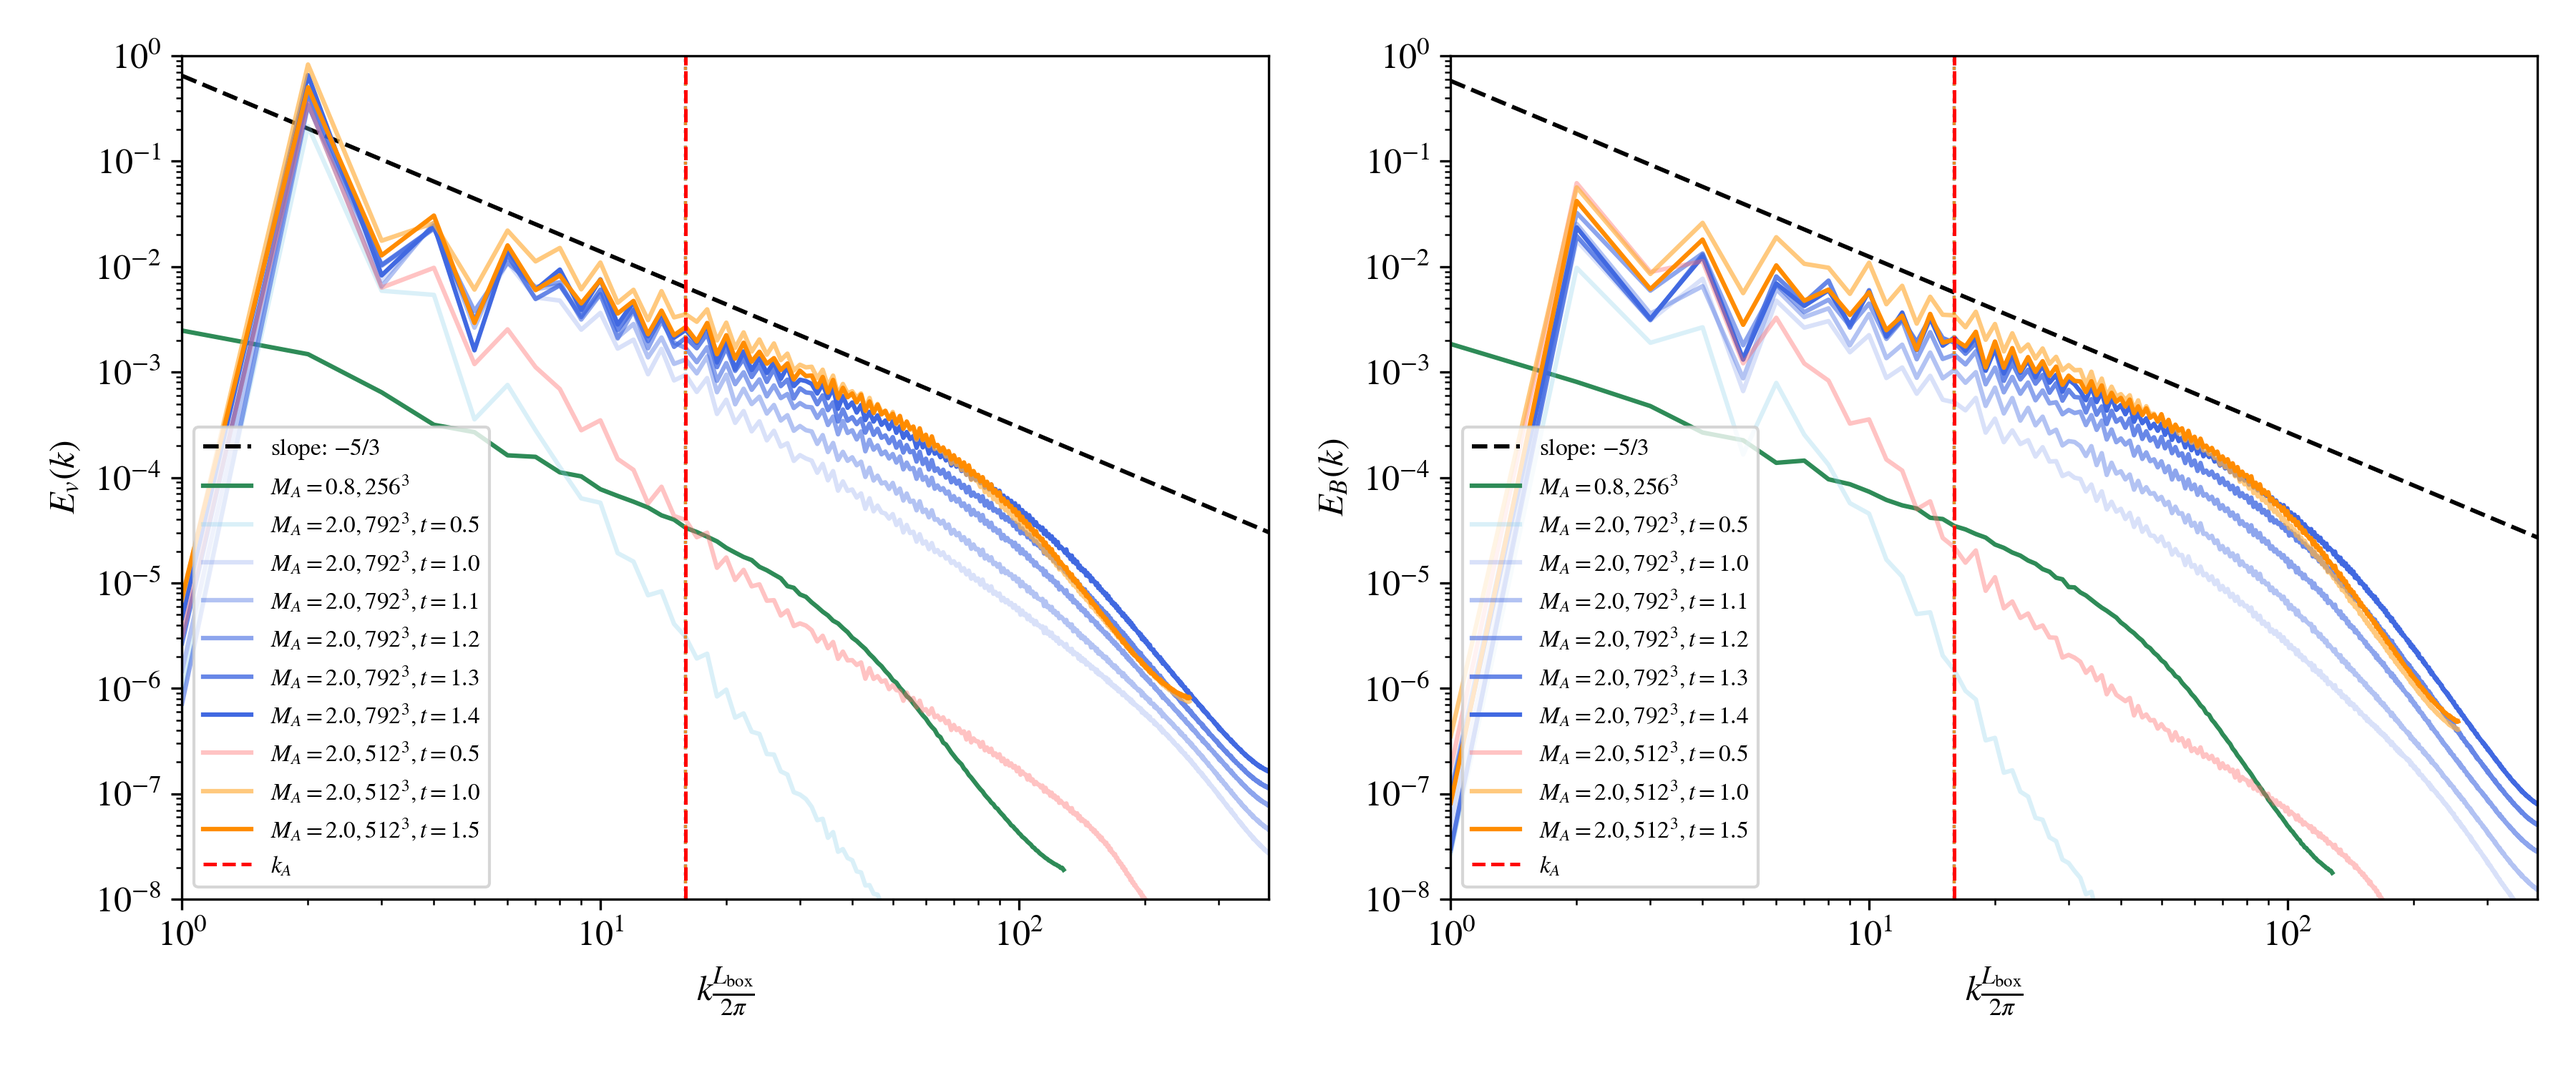
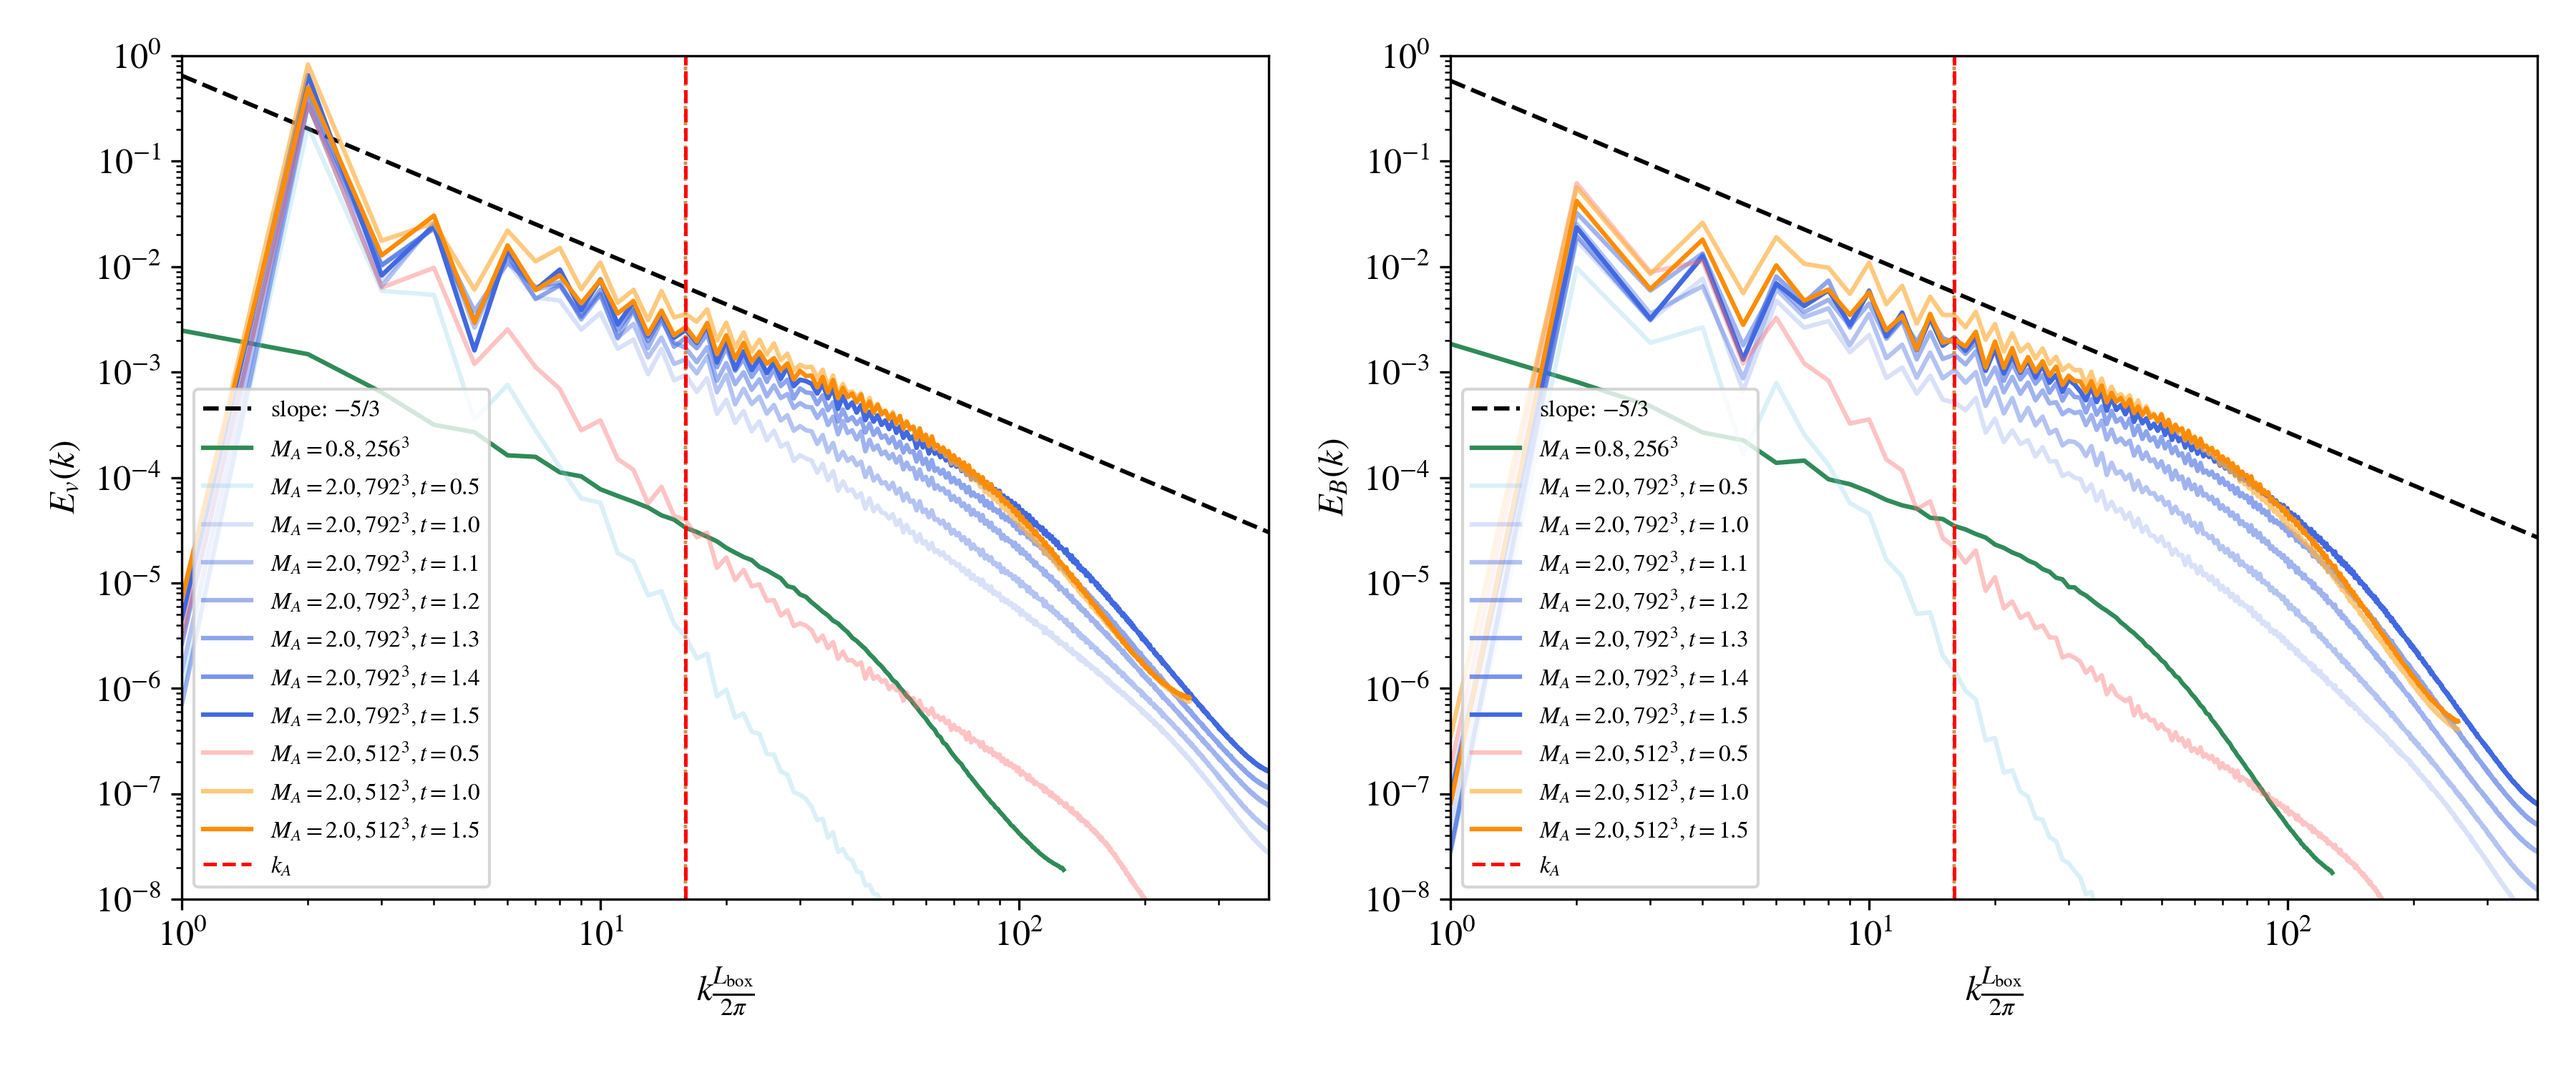
New simulation: M_A=2.0, 792^3, t=1.5

diff --git a/vel_b_spectrum/boxes_comparison/recreate_figure.py b/vel_b_spectrum/boxes_comparison/recreate_figure.py
@@ -12,9 +12,10 @@ def replot(npz="M_A=2.0, 792^3, t=1.0.npz", meta="M_A=2.0, 792^3, t=1.0.json", o
         ("M_A=2.0, 792^3, t=0.5.npz", "M_A=2.0, 792^3, t=0.5.json", r"$M_A=2.0, 792^3, t=0.5$", "#87CEEB", 0.3),  # Sky Blue
         ("M_A=2.0, 792^3, t=1.0.npz", "M_A=2.0, 792^3, t=1.0.json", r"$M_A=2.0, 792^3, t=1.0$", "#4169E1", 0.2),  # Royal Blue
         ("M_A=2.0, 792^3, t=1.1.npz", "M_A=2.0, 792^3, t=1.1.json", r"$M_A=2.0, 792^3, t=1.1$", "#4169E1", 0.4),  # Royal Blue
-        ("M_A=2.0, 792^3, t=1.2.npz", "M_A=2.0, 792^3, t=1.2.json", r"$M_A=2.0, 792^3, t=1.2$", "#4169E1", 0.6),  # Royal Blue
-        ("M_A=2.0, 792^3, t=1.3.npz", "M_A=2.0, 792^3, t=1.3.json", r"$M_A=2.0, 792^3, t=1.3$", "#4169E1", 0.8,),  # Royal Blue
-        ("M_A=2.0, 792^3, t=1.4.npz", "M_A=2.0, 792^3, t=1.4.json", r"$M_A=2.0, 792^3, t=1.4$", "#4169E1", 1.0),  # Royal Blue
+        ("M_A=2.0, 792^3, t=1.2.npz", "M_A=2.0, 792^3, t=1.2.json", r"$M_A=2.0, 792^3, t=1.2$", "#4169E1", 0.5),  # Royal Blue
+        ("M_A=2.0, 792^3, t=1.3.npz", "M_A=2.0, 792^3, t=1.3.json", r"$M_A=2.0, 792^3, t=1.3$", "#4169E1", 0.6,),  # Royal Blue
+        ("M_A=2.0, 792^3, t=1.4.npz", "M_A=2.0, 792^3, t=1.4.json", r"$M_A=2.0, 792^3, t=1.4$", "#4169E1", 0.7),  # Royal Blue
+        ("M_A=2.0, 792^3, t=1.5.npz", "M_A=2.0, 792^3, t=1.5.json", r"$M_A=2.0, 792^3, t=1.5$", "#4169E1", 1.0),  # Royal Blue
         ("M_A=2.0, 512^3, t=0.5.npz", "M_A=2.0, 512^3, t=0.5.json", r"$M_A=2.0, 512^3, t=0.5$", "#FF6B6B", 0.4),  # Coral Red
         ("M_A=2.0, 512^3, t=1.0.npz", "M_A=2.0, 512^3, t=1.0.json", r"$M_A=2.0, 512^3, t=1.0$", "#FFB347", 0.7),  # Peach
         ("M_A=2.0, 512^3, t=1.5.npz", "M_A=2.0, 512^3, t=1.5.json", r"$M_A=2.0, 512^3, t=1.5$", "#FF8C00", 1.0)   # Dark Orange
